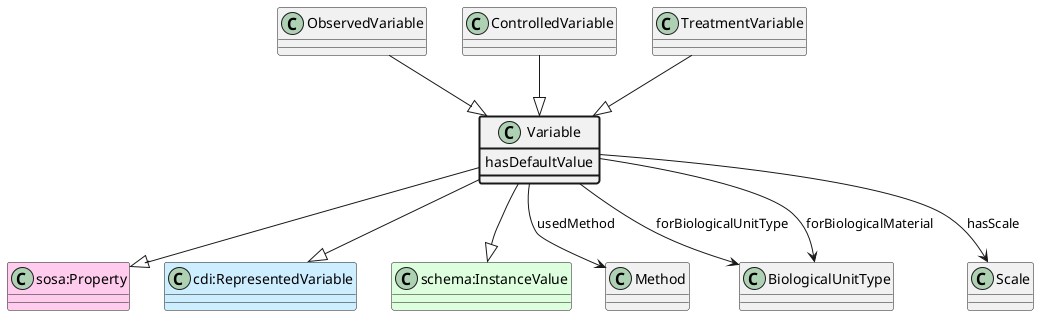
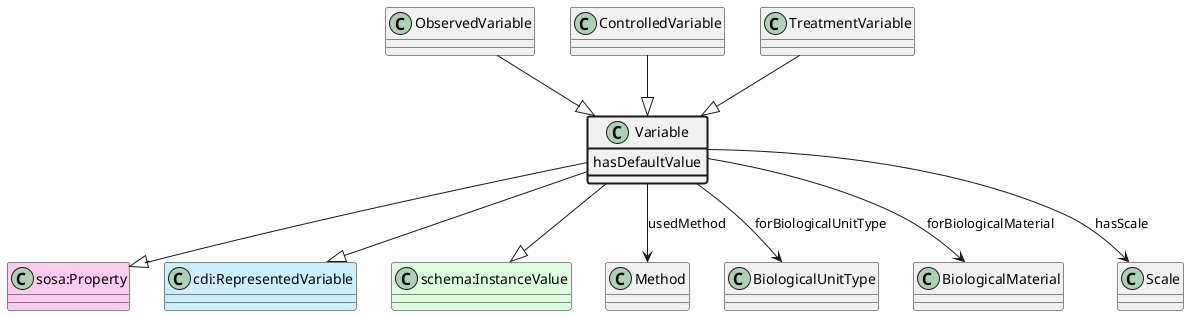
forBiologicalMaterial

diff --git a/doc/appn_ControlledVariable.md b/doc/appn_ControlledVariable.md
@@ -20,7 +20,7 @@ A Variable (representation of a Trait using a defined Scale) controlled or modif
     * Identifies a Method used to conduct an Assay.
 * [appn:Variable](/doc/appn_Variable.md) **appn:forBiologicalUnitType** [appn:BiologicalUnitType](/doc/appn_BiologicalUnitType.md)
     * Links a Variable to the BiologicalUnitType to which it relates.
-* [appn:Variable](/doc/appn_Variable.md) **appn:forBiologicalMaterial** [appn:BiologicalUnitType](/doc/appn_BiologicalUnitType.md)
+* [appn:Variable](/doc/appn_Variable.md) **appn:forBiologicalMaterial** [appn:BiologicalMaterial](/doc/appn_BiologicalMaterial.md)
     * Links a Variable to the BiologicalMaterial (i.e. crop) to which it relates.
 * [appn:Variable](/doc/appn_Variable.md) **appn:hasScale** [appn:Scale](/doc/appn_Scale.md)
     * Identifies the Scale associated with a Variable.

diff --git a/doc/appn_ObservedVariable.md b/doc/appn_ObservedVariable.md
@@ -21,7 +21,7 @@ A Variable (representation of a Trait using a defined Scale) observed or measure
     * Identifies a Method used to conduct an Assay.
 * [appn:Variable](/doc/appn_Variable.md) **appn:forBiologicalUnitType** [appn:BiologicalUnitType](/doc/appn_BiologicalUnitType.md)
     * Links a Variable to the BiologicalUnitType to which it relates.
-* [appn:Variable](/doc/appn_Variable.md) **appn:forBiologicalMaterial** [appn:BiologicalUnitType](/doc/appn_BiologicalUnitType.md)
+* [appn:Variable](/doc/appn_Variable.md) **appn:forBiologicalMaterial** [appn:BiologicalMaterial](/doc/appn_BiologicalMaterial.md)
     * Links a Variable to the BiologicalMaterial (i.e. crop) to which it relates.
 * [appn:Variable](/doc/appn_Variable.md) **appn:hasScale** [appn:Scale](/doc/appn_Scale.md)
     * Identifies the Scale associated with a Variable.

diff --git a/doc/appn_TreatmentVariable.md b/doc/appn_TreatmentVariable.md
@@ -20,7 +20,7 @@ A Variable (representation of a quantity using a defined Scale) for a BioChemEnt
     * Identifies a Method used to conduct an Assay.
 * [appn:Variable](/doc/appn_Variable.md) **appn:forBiologicalUnitType** [appn:BiologicalUnitType](/doc/appn_BiologicalUnitType.md)
     * Links a Variable to the BiologicalUnitType to which it relates.
-* [appn:Variable](/doc/appn_Variable.md) **appn:forBiologicalMaterial** [appn:BiologicalUnitType](/doc/appn_BiologicalUnitType.md)
+* [appn:Variable](/doc/appn_Variable.md) **appn:forBiologicalMaterial** [appn:BiologicalMaterial](/doc/appn_BiologicalMaterial.md)
     * Links a Variable to the BiologicalMaterial (i.e. crop) to which it relates.
 * [appn:Variable](/doc/appn_Variable.md) **appn:hasScale** [appn:Scale](/doc/appn_Scale.md)
     * Identifies the Scale associated with a Variable.

diff --git a/doc/appn_Variable.md b/doc/appn_Variable.md
@@ -15,7 +15,7 @@ Representation of a Trait using a defined Scale. In the DDI-CDI Variable Cascade
     * Identifies a Method used to conduct an Assay.
 * appn:Variable **appn:forBiologicalUnitType** [appn:BiologicalUnitType](/doc/appn_BiologicalUnitType.md)
     * Links a Variable to the BiologicalUnitType to which it relates.
-* appn:Variable **appn:forBiologicalMaterial** [appn:BiologicalUnitType](/doc/appn_BiologicalUnitType.md)
+* appn:Variable **appn:forBiologicalMaterial** [appn:BiologicalMaterial](/doc/appn_BiologicalMaterial.md)
     * Links a Variable to the BiologicalMaterial (i.e. crop) to which it relates.
 * appn:Variable **appn:hasScale** [appn:Scale](/doc/appn_Scale.md)
     * Identifies the Scale associated with a Variable.

diff --git a/doc/appn_BiologicalMaterial.md b/doc/appn_BiologicalMaterial.md
@@ -9,6 +9,8 @@ A taxonomic and/or genetic profile for one or more BiologicalUnits. Where possib
 * http://purl.org/ppeo/PPEO.owl#biological_material
 * https://bioschemas.org/Taxon
 ## Properties
+* [appn:Variable](/doc/appn_Variable.md) **appn:forBiologicalMaterial** appn:BiologicalMaterial
+    * Links a Variable to the BiologicalMaterial (i.e. crop) to which it relates.
 * [appn:BiologicalUnit](/doc/appn_BiologicalUnit.md) **appn:hasBiologicalMaterial** appn:BiologicalMaterial
     * Identifies the BiologicalMaterial for a BiologicalUnit.
 * appn:BiologicalMaterial **appn:hasMaterialSource** [appn:MaterialSource](/doc/appn_MaterialSource.md)

diff --git a/doc/appn_BiologicalUnitType.md b/doc/appn_BiologicalUnitType.md
@@ -12,5 +12,3 @@ A term from an enumeration of types of BiologicalUnit.
     * Links a BiologicalUnit to its type.
 * [appn:Variable](/doc/appn_Variable.md) **appn:forBiologicalUnitType** appn:BiologicalUnitType
     * Links a Variable to the BiologicalUnitType to which it relates.
-* [appn:Variable](/doc/appn_Variable.md) **appn:forBiologicalMaterial** appn:BiologicalUnitType
-    * Links a Variable to the BiologicalMaterial (i.e. crop) to which it relates.
